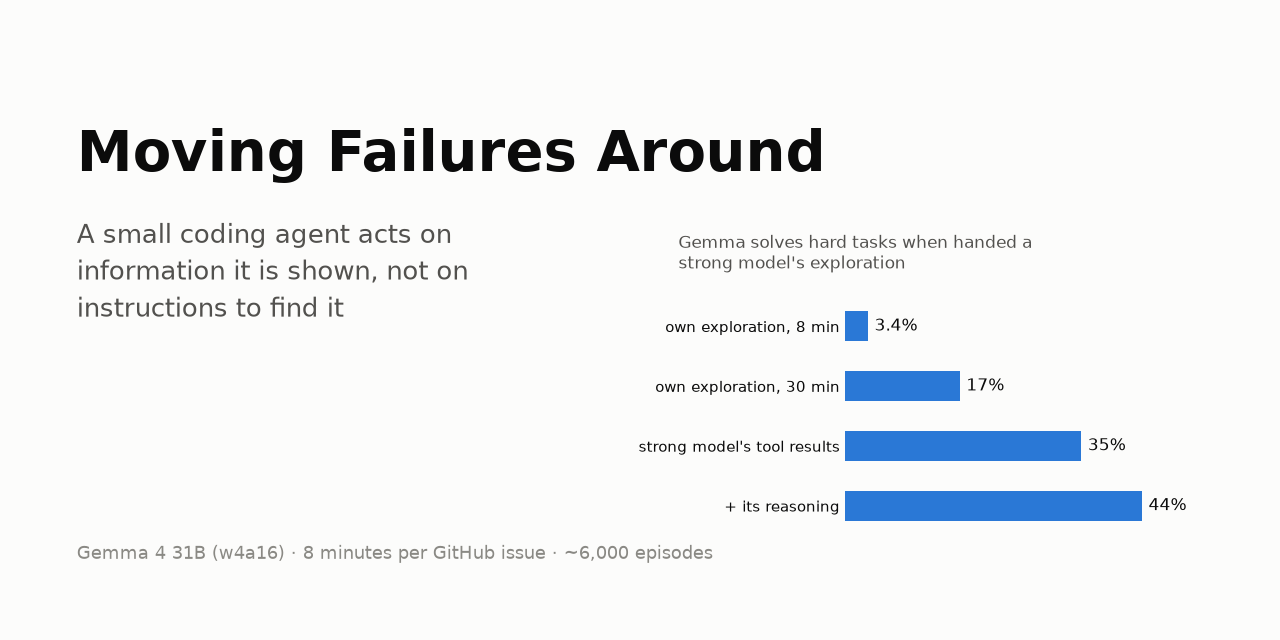
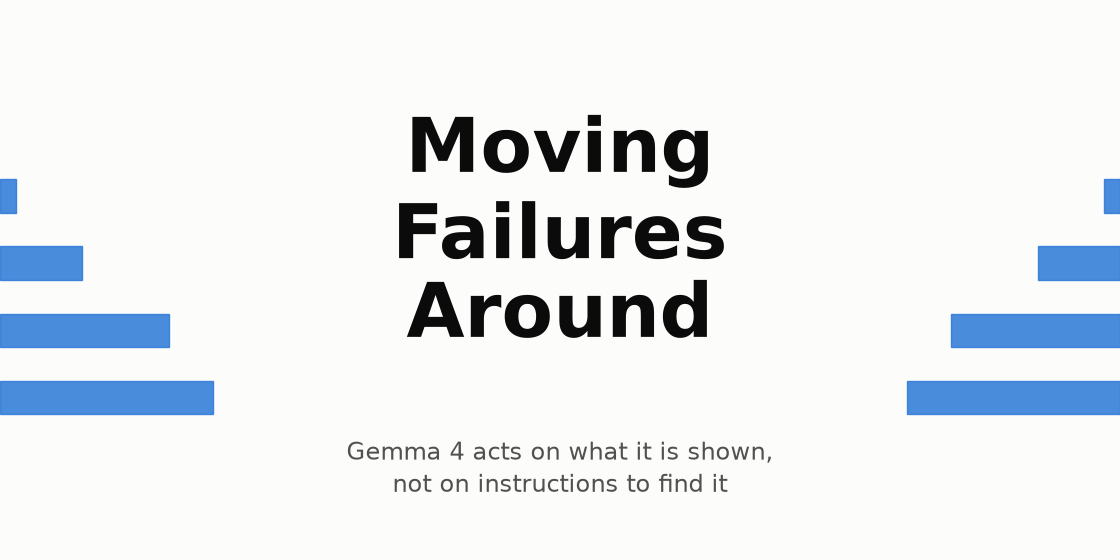
paper: card image for thumbnail crop

diff --git a/paper/figures/make_cover.py b/paper/figures/make_cover.py
@@ -1,4 +1,8 @@
-"""Kaggle Writeup card image (1280x640): title, subtitle and the handoff result (F4) as one bar series.
+"""Kaggle Writeup card and thumbnail image (1120x560, 2x Kaggle's 560x280 card).
+
+Kaggle crops the thumbnail as the centre square of the card, so everything readable sits in the middle half:
+the title on three lines and a short subtitle. The handoff result (F4) is drawn as faint bars in the margins,
+which only the card shows.
 
     uv run --with matplotlib python paper/figures/make_cover.py
 """
@@ -7,34 +11,28 @@ import pathlib
 import matplotlib
 matplotlib.use('Agg')
 import matplotlib.pyplot as plt  # noqa: E402
+from matplotlib.patches import Rectangle  # noqa: E402
 
 SERIES = '#2a78d6'
-INK, INK2, MUTED = '#0b0b0b', '#52514e', '#8a8984'
+INK, INK2 = '#0b0b0b', '#52514e'
 SURFACE = '#fcfcfb'
 OUT = pathlib.Path(__file__).with_name('cover.png')
 
-fig = plt.figure(figsize=(12.8, 6.4), dpi=100, facecolor=SURFACE)
-fig.text(0.06, 0.80, 'Moving Failures Around', fontsize=40, fontweight='bold', color=INK, va='top')
-fig.text(0.06, 0.66, 'A small coding agent acts on\ninformation it is shown, not on\ninstructions to find it',
-         fontsize=19, color=INK2, va='top', linespacing=1.35)
-fig.text(0.06, 0.12, 'Gemma 4 31B (w4a16) · 8 minutes per GitHub issue · ~6,000 episodes',
-         fontsize=13, color=MUTED, va='bottom')
+fig = plt.figure(figsize=(11.2, 5.6), dpi=100, facecolor=SURFACE)
+fig.text(0.5, 0.80, 'Moving\nFailures\nAround', fontsize=54, fontweight='bold', color=INK,
+         ha='center', va='top', linespacing=1.05)
+fig.text(0.5, 0.22, 'Gemma 4 acts on what it is shown,\nnot on instructions to find it',
+         fontsize=17, color=INK2, ha='center', va='top', linespacing=1.3)
 
-ax = fig.add_axes([0.66, 0.17, 0.29, 0.36], facecolor=SURFACE)
-labels = ['own exploration, 8 min', 'own exploration, 30 min', "strong model's tool results",
-          '+ its reasoning']
-vals = [3.4, 17, 35, 44]
-y = range(len(vals))[::-1]
-ax.barh(list(y), vals, height=0.5, color=SERIES)
-for yi, v in zip(y, vals):
-    ax.text(v + 1, yi, f'{v:g}%', va='center', fontsize=12, color=INK)
-ax.set_yticks(list(y), labels, fontsize=11, color=INK)
-ax.set_xlim(0, 55)
-ax.set_xticks([])
-for s in ax.spines.values():
-    s.set_visible(False)
-ax.tick_params(length=0)
-fig.text(0.53, 0.57, 'Gemma solves hard tasks when handed a\nstrong model\'s exploration',
-         fontsize=12.5, color=INK2, va='bottom', linespacing=1.3)
+# margins: the handoff solve rates (3.4, 17, 35, 44 %) as bars growing toward the centre
+ax = fig.add_axes([0, 0, 1, 1], facecolor='none')
+ax.set_xlim(0, 1)
+ax.set_ylim(0, 1)
+ax.axis('off')
+for i, v in enumerate([3.4, 17, 35, 44]):
+    w = 0.19 * v / 44
+    y = 0.62 - i * 0.12
+    ax.add_patch(Rectangle((0.0, y), w, 0.06, color=SERIES, alpha=0.85))
+    ax.add_patch(Rectangle((1.0 - w, y), w, 0.06, color=SERIES, alpha=0.85))
 fig.savefig(OUT, facecolor=SURFACE)
 print(OUT)
